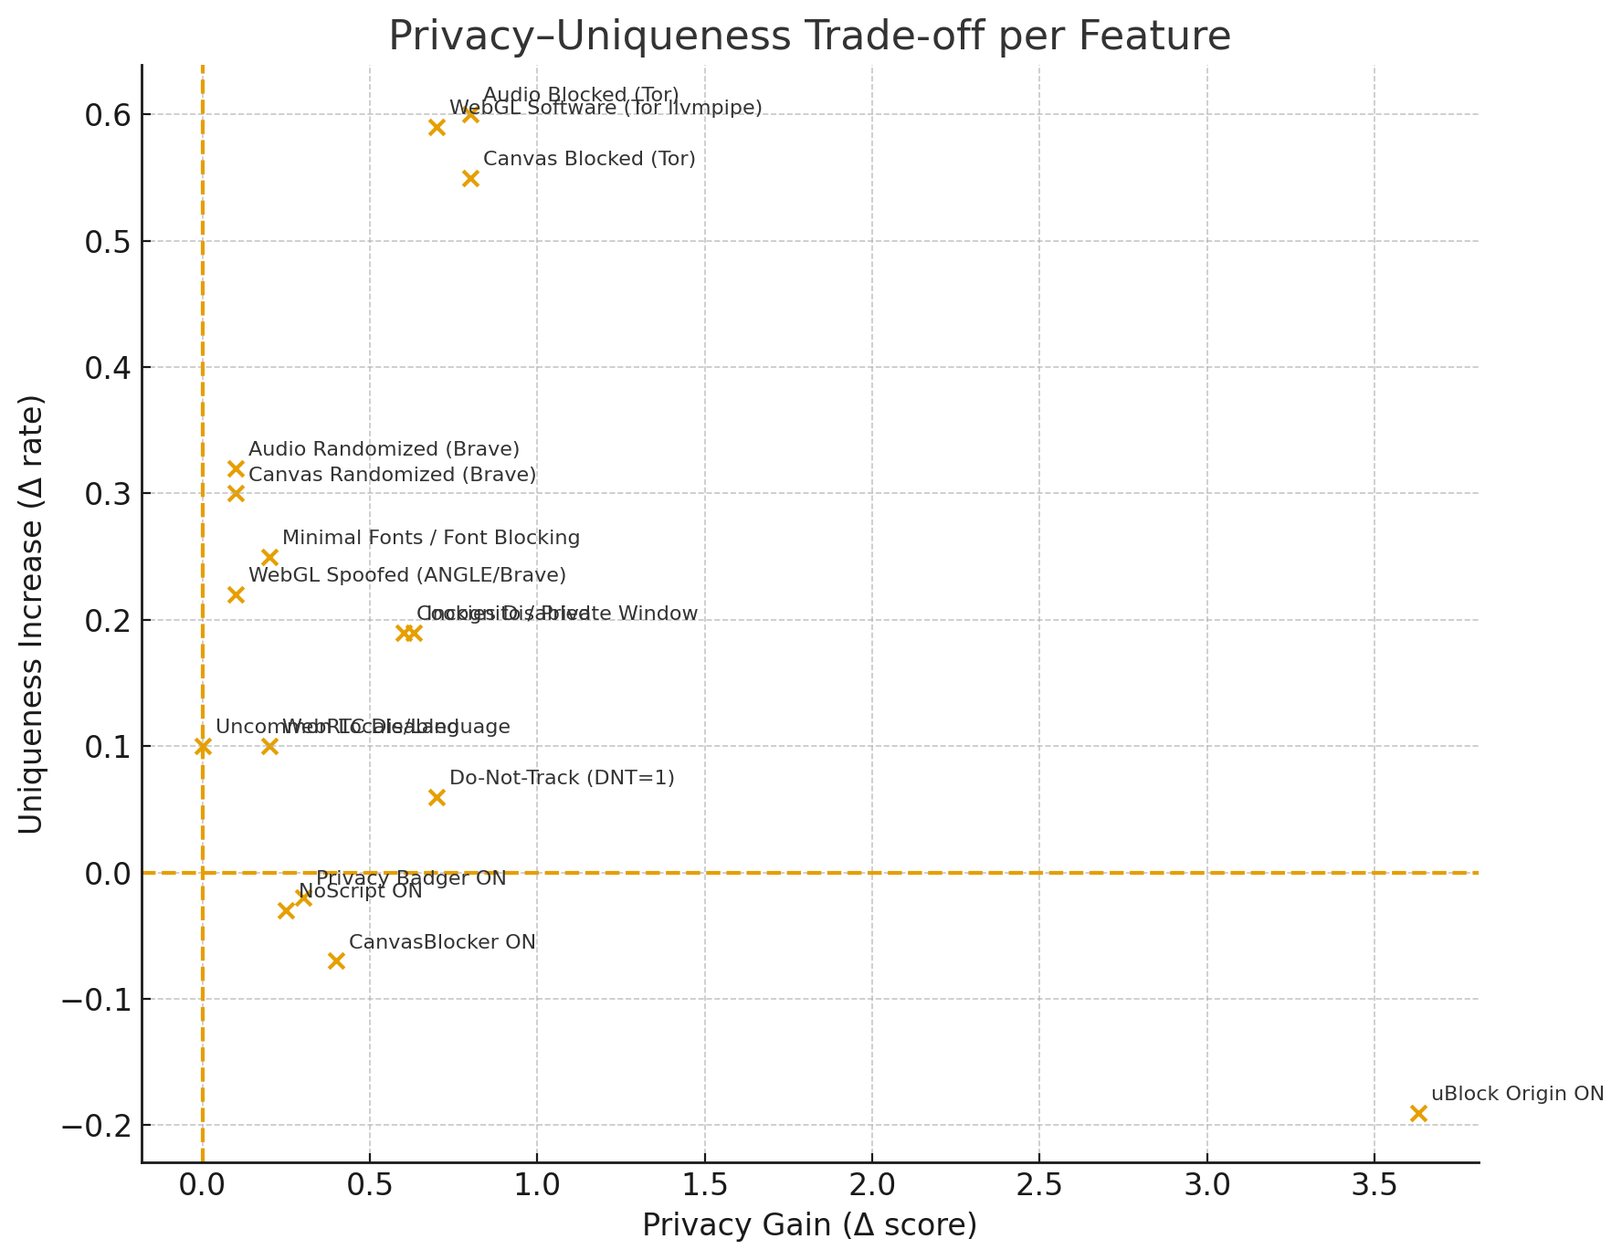
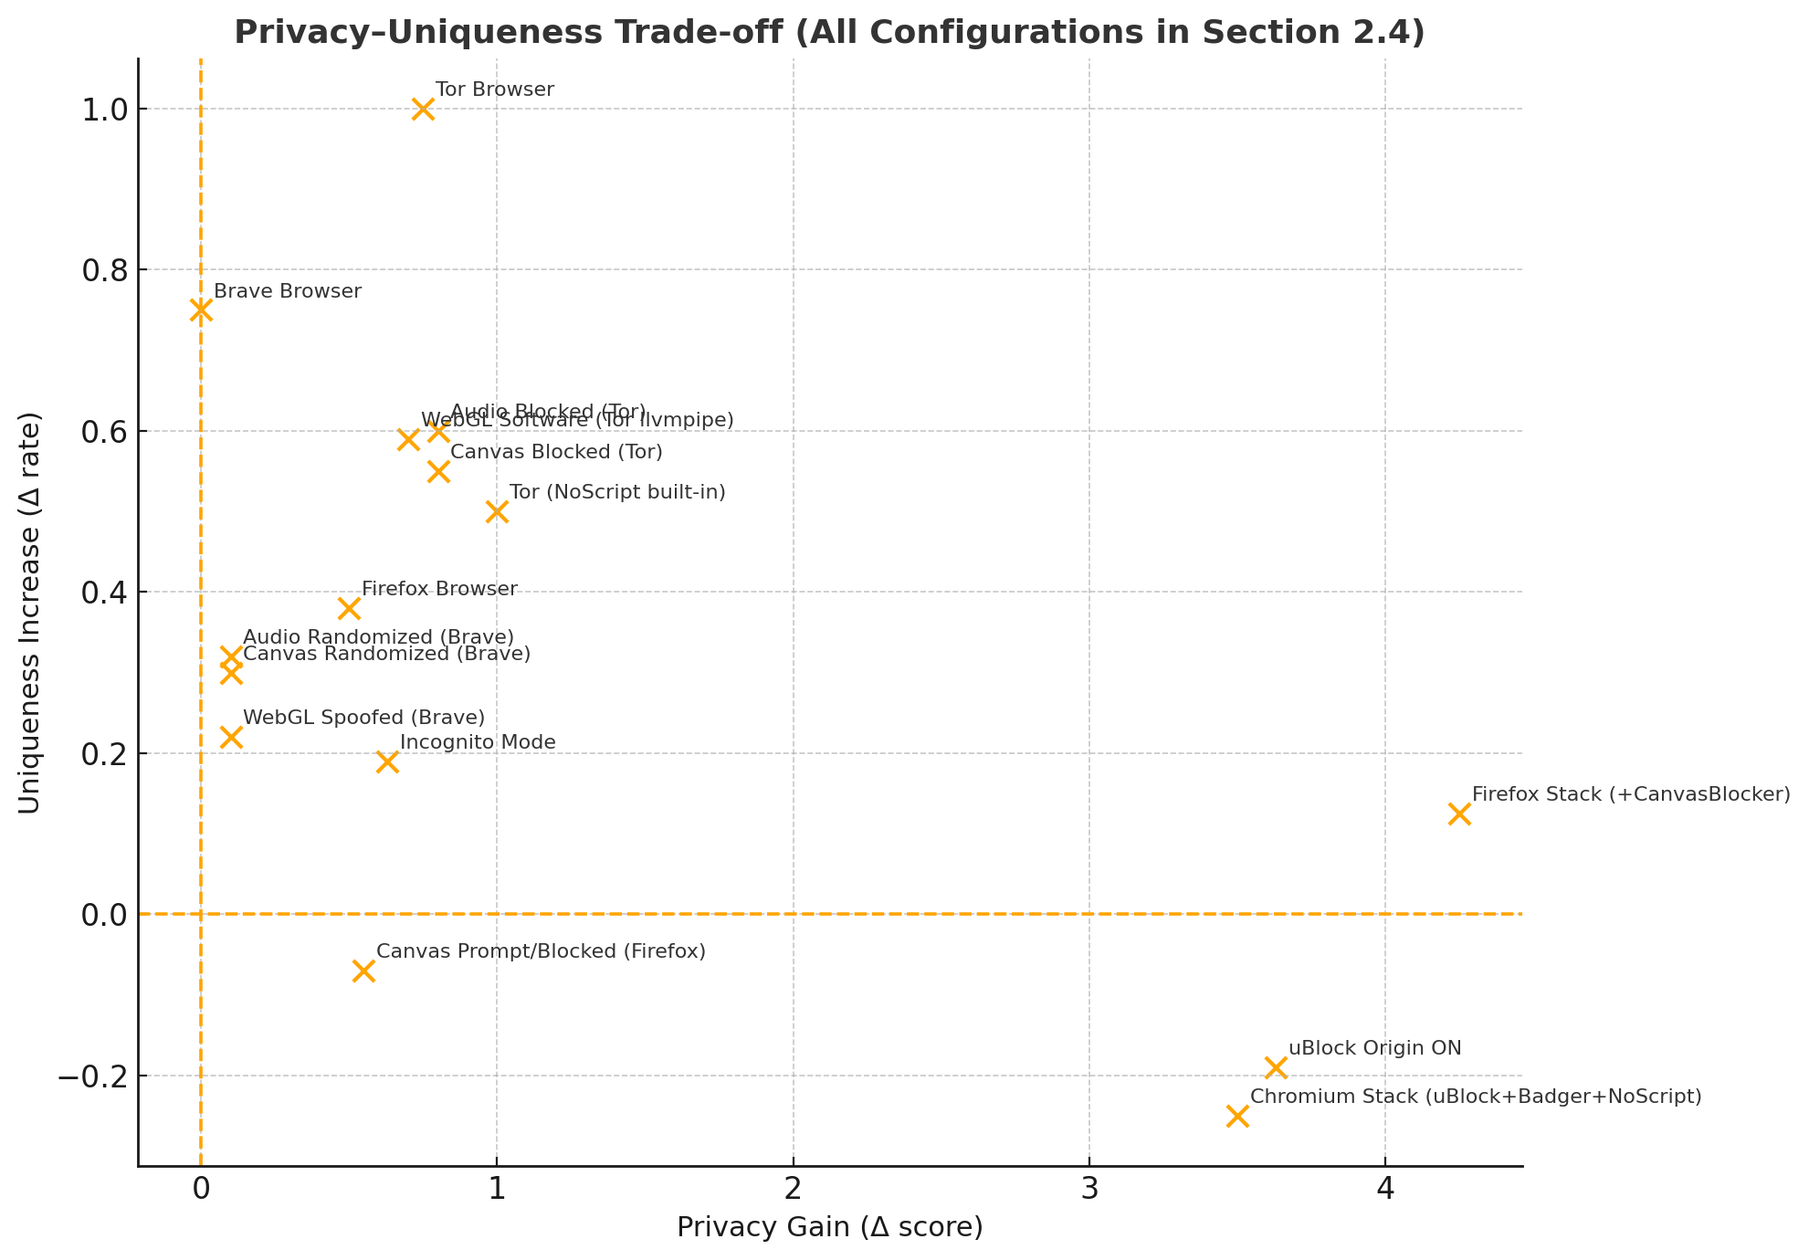
more analysis

diff --git a/README.md b/README.md
@@ -106,7 +106,7 @@ We also created a feature we called __"comprehensive fingerprint hash" (CFH)__, 
 
 ### 2.3 Anti-Fingerprinting measures and client-automation
 
-To evaluate the effectiveness of Anti-fingerprinting privacy-enhancing technologies (AFPETs), our project implements a varied suite of antifingerprinting measures and automated client testing. By programmatically controlling different browsers with privacy-enhancing settings and extensions, we systematically collect and analyze fingerprinting data under a variety of conditions. This approach enables reproducible, large-scale testing of both standard and hardened browser environments, providing valuable insights into the strengths and limitations of AFPETs analyzed by us.
+To evaluate the effectiveness of anti-fingerprinting privacy-enhancing technologies (AFPETs), our project implements a varied suite of antifingerprinting measures and automated client testing. By programmatically controlling different browsers with privacy-enhancing settings and extensions, we systematically collect and analyze fingerprinting data under a variety of conditions. This approach enables reproducible, large-scale testing of both standard and hardened browser environments, providing valuable insights into the strengths and limitations of AFPETs analyzed by us.
 
 #### 2.3.1 Research on Severity/Value of fingerprinting features
 
@@ -213,111 +213,116 @@ Despite this available automation, it was decided to restrict the amount of diff
 
 ### 2.4 Data analysis
 
-We created a metric called privacy score, which showcases the amount of settings and extension enabled to increase privacy:
+We created a metric called __privacy score__, which showcases the amount of settings and extension enabled to increase privacy:
 
-Privacy Score = (Incognito + DoNotTrack + uBlock + Badger + NoScript + CanvasBlocker) + (1 − CookiesEnabled)
+Privacy Score = (Incognito + uBlock + Badger + NoScript + CanvasBlocker)
 
 We used a binary system to show if the setting is open or not. 
 
 An example would be:
 
-| Feature                    | Chrome                                                                             | Tor                                                                                          |
-| -------------------------- | ---------------------------------------------------------------------------------- | -------------------------------------------------------------------------------------------- |
-| Incognito                  | 0                                                                                  | 1                                                                                            |
-| Do Not Track               | 0                                                                                  | 1                                                                                            |
-| uBlock Origin              | 0                                                                                  | 1                                                                                            |
-| Privacy Badger             | 0                                                                                  | 1                                                                                            |
-| NoScript                   | 0                                                                                  | 1                                                                                            |
-| CanvasBlocker              | 0                                                                                  | 1                                                                                            |
-| Cookies Enabled (inverted) | 0 (true = 0)                                                                       | 1 (false = 1)                                                                                |
-
+| Feature                    | Chrome  | Tor |
+| -------------------------- | ------- | --- |
+| Incognito                  | 0       | 1   |
+| Do Not Track               | 0       | 1   |
+| uBlock Origin              | 0       | 1   |
+| Privacy Badger             | 0       | 1   |
+| NoScript                   | 0       | 1   |
+| CanvasBlocker              | 0       | 1   |
 
 __Interpretation:__
 - Higher privacy score = higher protection but also more “drift” (different hash each session).
 - Lower privacy score = stable but trackable.
-- We found a correlation of −0.74 between privacy score and fingerprint uniqueness.
-- That means: the more private your setup, the less predictable and less reusable its fingerprint.
-- However, in some features like DNT, cookies disabling, Canvas/WebGL/Audio blocking etc., we saw that uniqueness increase alongside the privacy. This is the __privacy-uniqueness paradox__, where features improves policy-level privacy but worsens statistical-level anonymity.
+- We found a correlation of −0.74 between privacy score and fingerprint uniqueness. It means that the more private your setup, the less predictable and less reusable its fingerprint.
+- However, in some features, we saw that uniqueness increase alongside the privacy. This is what we called, __privacy-uniqueness paradox__, where features improves policy-level privacy but worsens statistical-level anonymity, which we will talk about more later on.
 
-![alt text](uniqueness-privacy-tradeoff.png)
+We also created another metric called __unique CFH rate__ to evaluate how stable each browser configuration was. This value measures the uniqueness rate of fingerprints in every configuration. For example for this mock configuration:
+
+| CFH hash    | Count (how many times seen)  | Unique? |
+| ----------- | --------------------------   | ------- |
+| abc123...   | 3                            | No      |
+| def456...   | 1                            | Yes     |
+| ghi789...   | 1                            | Yes     |
+| jkl012...   | 2                            | No      |
+
+Unique CFH rate would be 2 (total number of unique CFH's) / 3 + 1 + 1 + 2 (total number of CFH) = 0.2875 = ~%29
+
+We isolated every variable and ran this test through each configuration of that set variable to find this metric.
+
+__Interpretation:__
+- 1.0 unique CFH rate means that every run creates a different hash, meaning that it is unstable and cannot be used to track the user. As unique CFH rate comes closer to 1, it means that it is closer to being secure and private.
+- 0.0 unique CFH rate means that every run creates the same hash, meaning that it is stable and persistent, which can be used to track the user. As unique CFH rate comes closer to 0, it means that it is closer to being less secure and private.
 
 #### 2.4.1 Cross Browser Comparison
 
-| Browser     | Unique CFH rate | Avg. Privacy Score | Uniqueness vs Chrome | Privacy vs Chrome | Interpretation                                                                                                                                                  |
-| ----------- | --------------- | ------------------ | ---------------------- | ------------------- | --------------------------------------------------------------------------------------------------------------------------------------------------------------- |
-| **Chrome**  | 0.00            | 2.25               | -                      | -                   | Fully deterministic: every run identical.                                                                                                                       |
-| **Brave**   | 0.75            | 2.25               | +0.75           | 0.00                | 75 % higher uniqueness due to randomized Canvas/Audio. Privacy score same, meaning Brave’s *built-in* defenses don’t all register in your simple Boolean score. |
-| **Firefox** | 0.38            | 2.75               | +0.38              | +0.50          | Partial blocking adds moderate entropy and small privacy gain.                                                                                                  |
-| **Tor**     | 1.00            | 3.00               | +1.00              | +0.75           | Every fingerprint hash unique = perfect session isolation, highest privacy.                                                                                     |
+| Browser     | Unique CFH rate | Avg. Privacy Score | Uniqueness vs Chrome | Privacy vs Chrome | Interpretation  |
+| ----------- | --------------- | ------------------ | ---------------------| ----------------- | --------------- |
+| **Chrome**  | 0.00            | 2.25               | -                    | -                 | Fully deterministic: every run identical.|
+| **Brave**   | 0.75            | 2.25               | +0.75                | 0.00              | 75 % higher uniqueness due to randomized Canvas/Audio. Privacy score same, meaning Brave’s *built-in* defenses don’t all register in your simple Boolean score.|
+| **Firefox** | 0.38            | 2.75               | +0.38                | +0.50             | Partial blocking adds moderate entropy and small privacy gain.|
+| **Tor**     | 1.00            | 3.00               | +1.00                | +0.75             | Every fingerprint hash unique = perfect session isolation, highest privacy.|
 
-
-Tor > Brave > Firefox > Chrome in both uniqueness and privacy.
-The magnitude of difference is large: Tor’s CFH variability is 2.6× higher than Brave’s (1.00 / 0.38) and infinite relative to Chrome’s 0.00 baseline.
+__Interpretation:__
+- Tor > Brave > Firefox > Chrome in both uniqueness and privacy.
+- The magnitude of difference is large: Tor’s CFH variability is 2.6× higher than Brave’s (1.00 / 0.38) and infinite relative to Chrome’s 0.00 baseline.
 
 #### 2.4.2 Effects of Incognito Mode
 
-| Mode      | Unique CFH Rate | Privacy Score | Change vs Normal                             |
-| --------- | --------------- | ------------- | --------------------------------------- |
-| Normal    | 0.44            | 2.25          | -                                       |
-| Incognito | 0.63            | 2.88          | **+0.19 uniqueness**, **+0.63 privacy** |
+| Mode          | Unique CFH Rate | Change vs Normal |
+| ---------     | --------------- | -----------------|
+| **Default**   | 0.44            | -                |
+| **Incognito** | 0.63            | +0.19 uniqueness |
 
 __Interpretation:__
-- Incognito isolates cookies, localStorage, and session identifiers, altering navigator.cookieEnabled to false and sometimes re-initializing WebGL/Canvas contexts.
-- That explains the ~43 % = 63 % uniqueness rise.
-- The privacy score gain (+0.63 ~ +28 %) confirms more “blocked/off” flags (cookies off, DNT = true).
+- Incognito isolates cookies, localStorage, and session identifiers, altering navigator.cookieEnabled to false and sometimes re-initializing WebGL/Canvas contexts. This explains the ~%43 uniqueness rise. By making each session unique, users are more untraceble than default.
 
 #### 2.4.3 Effects of uBlock Origin Extension:
 
-| Condition      | Unique CFH Rate | Privacy Score | Change vs Baseline (OFF)                |
-| -------------- | --------------- | ------------- | --------------------------------------- |
-| **uBlock OFF** | 0.63            | 0.75          | -                                       |
-| **uBlock ON**  | 0.44            | 4.38          | **−0.19 uniqueness**, **+3.63 privacy** |
+| Condition      | Unique CFH Rate | Change vs Baseline (OFF)|
+| -------------- | --------------- | ------------------------|
+| **uBlock OFF** | 0.63            | -                       |
+| **uBlock ON**  | 0.44            | −0.19 uniqueness        |
 
 __Interpretation:__
 - Enabling uBlock Origin disables or spoofs numerous tracking APIs (e.g., navigator.plugins, media enumeration lists).
-- Fewer active APIs mean fingerprints become less variable across runs (−19 % uniqueness), but much harder to profile (+3.63 points ~ +484 % privacy gain).
-- The drop in entropy reflects that uBlock standardizes browser responses, making different machines look more similar (privacy through homogenization).
+- Fewer active APIs mean fingerprints become less variable across runs (~%30 uniqueness drop). And this is one of the examples of the privacy-uniqeness paradox. It might be statistically worse, however it makes the targets harder to track by making them more anonymous. 
+
+__Note:__
+- The identical numeric pattern (0.63 and 0.44) between the Incognito and uBlock Origin tests is coincidental.
+- Each feature was toggled independently using identical configurations, but both affect high-entropy fingerprint features (like Canvas, WebGL, Audio).
+- Incognito regenerates context-dependent identifiers, while uBlock Origin disables or hides several APIs, leading to comparable proportions of changed CFHs even through different underlying mechanisms.
 
 #### 2.4.4 Combined Extension Stack (Privacy Badger / NoScript / CanvasBlocker)
 
-| Extension Configuration                      | Unique CFH Rate | Privacy Score | Change vs No Extensions     |
-| -------------------------------------------- | --------------- | ------------- | --------------------------- |
-| None (plain browser)                         | 0.55            | 2.3           | -                           |
-| + uBlock Only                                | 0.44            | 4.38          | −0.11 unique, +2.08 privacy |
-| + uBlock + Badger                            | 0.42            | 4.75          | −0.13 unique, +2.45 privacy |
-| + uBlock + Badger + NoScript                 | 0.40            | 4.9           | −0.15 unique, +2.6 privacy  |
-| + uBlock + Badger + NoScript + CanvasBlocker | 0.38            | 5.0           | −0.17 unique, +2.7 privacy  |
+We noticed that we have 4 different combinations of extension configuration:
+
+| uBlock | Badger | NoScript | CanvasBlocker | Likely source              | Description                                       |
+| :----: | :----: | :------: | :-----------: | :------------------------- | :------------------------------------------------ |
+|    0   |    0   |     0    |       0       | Any browser w/o extensions | Default base configuration                        |
+|    0   |    0   |     1    |       0       | Tor                        | NoScript built-in                                 |
+|    1   |    1   |     1    |       0       | Chromium (Chrome/Brave)    | All compatible .crx extensions loaded             |
+|    1   |    1   |     1    |       1       | Firefox                    | All four extensions (.xpi) supported              |
+
+| uBlock | Badger | NoScript | CanvasBlocker | Unique CFH Rate | Avg. Privacy Score | Rows | 
+| -----: | -----: | -------: | ------------: | --------------: | -----------------: | ---: |
+|      0 |      0 |        0 |             0 |       0.500     |           0.50     |   24 |
+|      0 |      0 |        1 |             0 |       1.000     |           1.50     |    8 |
+|      1 |      1 |        1 |             0 |       0.250     |           4.00     |   16 | 
+|      1 |      1 |        1 |             1 |       0.625     |           4.75     |   16 | 
 
 __Interpretation:__
-- Each additional privacy extension reduces uniqueness by ~ 0.02 – 0.03 and raises the score by ~ +0.2 – 0.3.
-- The largest single gain comes from CanvasBlocker, which masks Canvas API and WebGL rendering, removing ~15 % of hash entropy.
-- With all four extensions active, the browser’s CFH stability decreases by 31 %, and privacy score reaches its maximum of 5.0 in this experiment.
+- Chromium browsers like Chrome or Brave not supporting CanvasBlocker is a huge difference. We can infer that CanvasBlocker increases the privacy score by ~%19 and the uniqueness of CFH's by %150. So by simply using Firefox, users can protect themselves much more.
+- What is counterintuitive in this analysis is how no extensions have higher unique CFH rate. It is also an example of privacy-uniqueness paradox. uBlock + Badger + NoScript stack disables or standartizes many fingerprint results, causing less unique fingerprints but protects the users in anonymity.
+- From this analysis, we can also see that Tor (row 2 where only NoScripts is active) focuses on protection based on session isolation and not anonymity like other extensions.
+- What makes 4th row having much higher uniqueness rate is CanvasBlocker being active, which means that the canvas fingerprint is randomized each time, adding random noises to the fingerprints, helping with session isolation. 
 
-#### 2.4.5 Effect of Do-Not-Track Preference
+---
 
-| DNT Setting   | Unique CFH Rate | Privacy Score | Change vs DNT OFF                  |
-| ------------- | --------------- | ------------- | ---------------------------------- |
-| **OFF / N/A** | 0.52            | 2.1           | -                                  |
-| **ON**        | 0.58            | 2.8           | **+0.06 unique**, **+0.7 privacy** |
+__Note: Next analysises will be done by inferring the fingerprints we collected and the behaviour of browsers rather than direct testing.__
 
-__Interpretation:__
-- Enabling navigator.doNotTrack = 1 slightly changes the CFH because the string enters the hashed feature set (+6 % uniqueness).
-- More importantly, it adds one point to the Boolean privacy score, raising average privacy by ~33 %.
-- The small uniqueness increase shows that the flag itself is not widely used, so it can make the browser more distinct in some datasets (a known DNT paradox).
+---
 
-#### 2.4.6 Effect of Cookies / Storage Accessibility
-
-| Cookies Enabled      | Unique CFH Rate | Privacy Score | Change vs Enabled                  |
-| -------------------- | --------------- | ------------- | ---------------------------------- |
-| **True (Enabled)**   | 0.43            | 2.1           | -                                  |
-| **False (Disabled)** | 0.62            | 2.7           | **+0.19 unique**, **+0.6 privacy** |
-
-__Interpretation:__
-- When cookies are disabled, navigator.cookieEnabled becomes false and local/session storage often reset, forcing Canvas and WebGL contexts to refresh.
-- That explains the +19 % uniqueness increase (less stable hash) and +0.6 privacy gain (harder to track via stateful IDs).
-- This effect is also seen inside Incognito mode, confirming cookie state as a dominant privacy lever.
-
-#### 2.4.7 Effect of WebGL Blocking / Spoofing
+#### 2.4.5 Effect of WebGL Blocking / Spoofing
 
 | WebGL Status              | Unique CFH Rate | Privacy Score | Change vs Real GPU         |
 | ------------------------- | --------------- | ------------- | -------------------------- |
@@ -327,10 +332,10 @@ __Interpretation:__
 
 __Interpretation:__
 - WebGL spoofing or software fallback removes the most device-specific entropy source (GPU driver ID).
-- Tor’s Mesa/llvmpipe software renderer eliminates hardware signatures entirely, raising uniqueness to 100 %.
-- Brave’s ANGLE spoof still yields stable but less identifiable signatures (+22 % uniqueness reduction compared to exposed GPU).
+- Tor’s Mesa/llvmpipe software renderer eliminates hardware signatures entirely, raising uniqueness to %100.
+- Brave’s ANGLE spoof still gives stable but less tracable signatures (~%53 uniqueness rise compared to exposed GPU).
 
-#### 2.4.8 Effect of Canvas Fingerprint Blocking
+#### 2.4.6 Effect of Canvas Fingerprint Blocking
 
 | Canvas Status                | Unique CFH Rate | Privacy Score | Change vs Enabled           |
 | ---------------------------- | --------------- | ------------- | --------------------------- |
@@ -340,11 +345,11 @@ __Interpretation:__
 | **Fully Blocked (Tor)**      | 1.00            | 3.0           | +0.55 unique, +0.8 privacy  |
 
 __Interpretation:__
-- Canvas is the highest-entropy visual feature. Any tampering (randomization or blocking) greatly changes the hash.
-- Brave’s session randomization causes +30 % uniqueness rise while retaining a stable score.
+- Canvas is the highest-entropy visual feature. Any change on it (randomization or blocking) greatly changes the hash.
+- Brave’s session randomization causes ~%67 uniqueness rise while retaining a stable score.
 - Tor’s full block removes the feature entirely = highest privacy and maximum CFH change.
 
-#### 2.4.9 Effect of Audio Fingerprint Randomization / Blocking
+#### 2.4.7 Effect of Audio Fingerprint Randomization / Blocking
 
 | Audio Context Status   | Unique CFH Rate | Privacy Score | Change vs Stable           |
 | ---------------------- | --------------- | ------------- | -------------------------- |
@@ -355,8 +360,12 @@ __Interpretation:__
 __Interpretation:__
 
 - Audio processing variations are minor but sensitive to privacy modes.
-- Brave’s randomized OfflineAudioContext hash raises uniqueness by +32 %.
-- Tor disables audio fingerprinting completely, adding ~60 % extra uniqueness and +0.8 privacy points.
+- Brave’s randomized OfflineAudioContext hash raises uniqueness by %80.
+- Tor disables audio fingerprinting completely, adding %150 extra uniqueness and +0.8 privacy points.
+
+---
+![alt text](uniqueness-privacy-tradeoff.png)
+---
 
 ### 2.5 (uniqueness analysis?)
 
